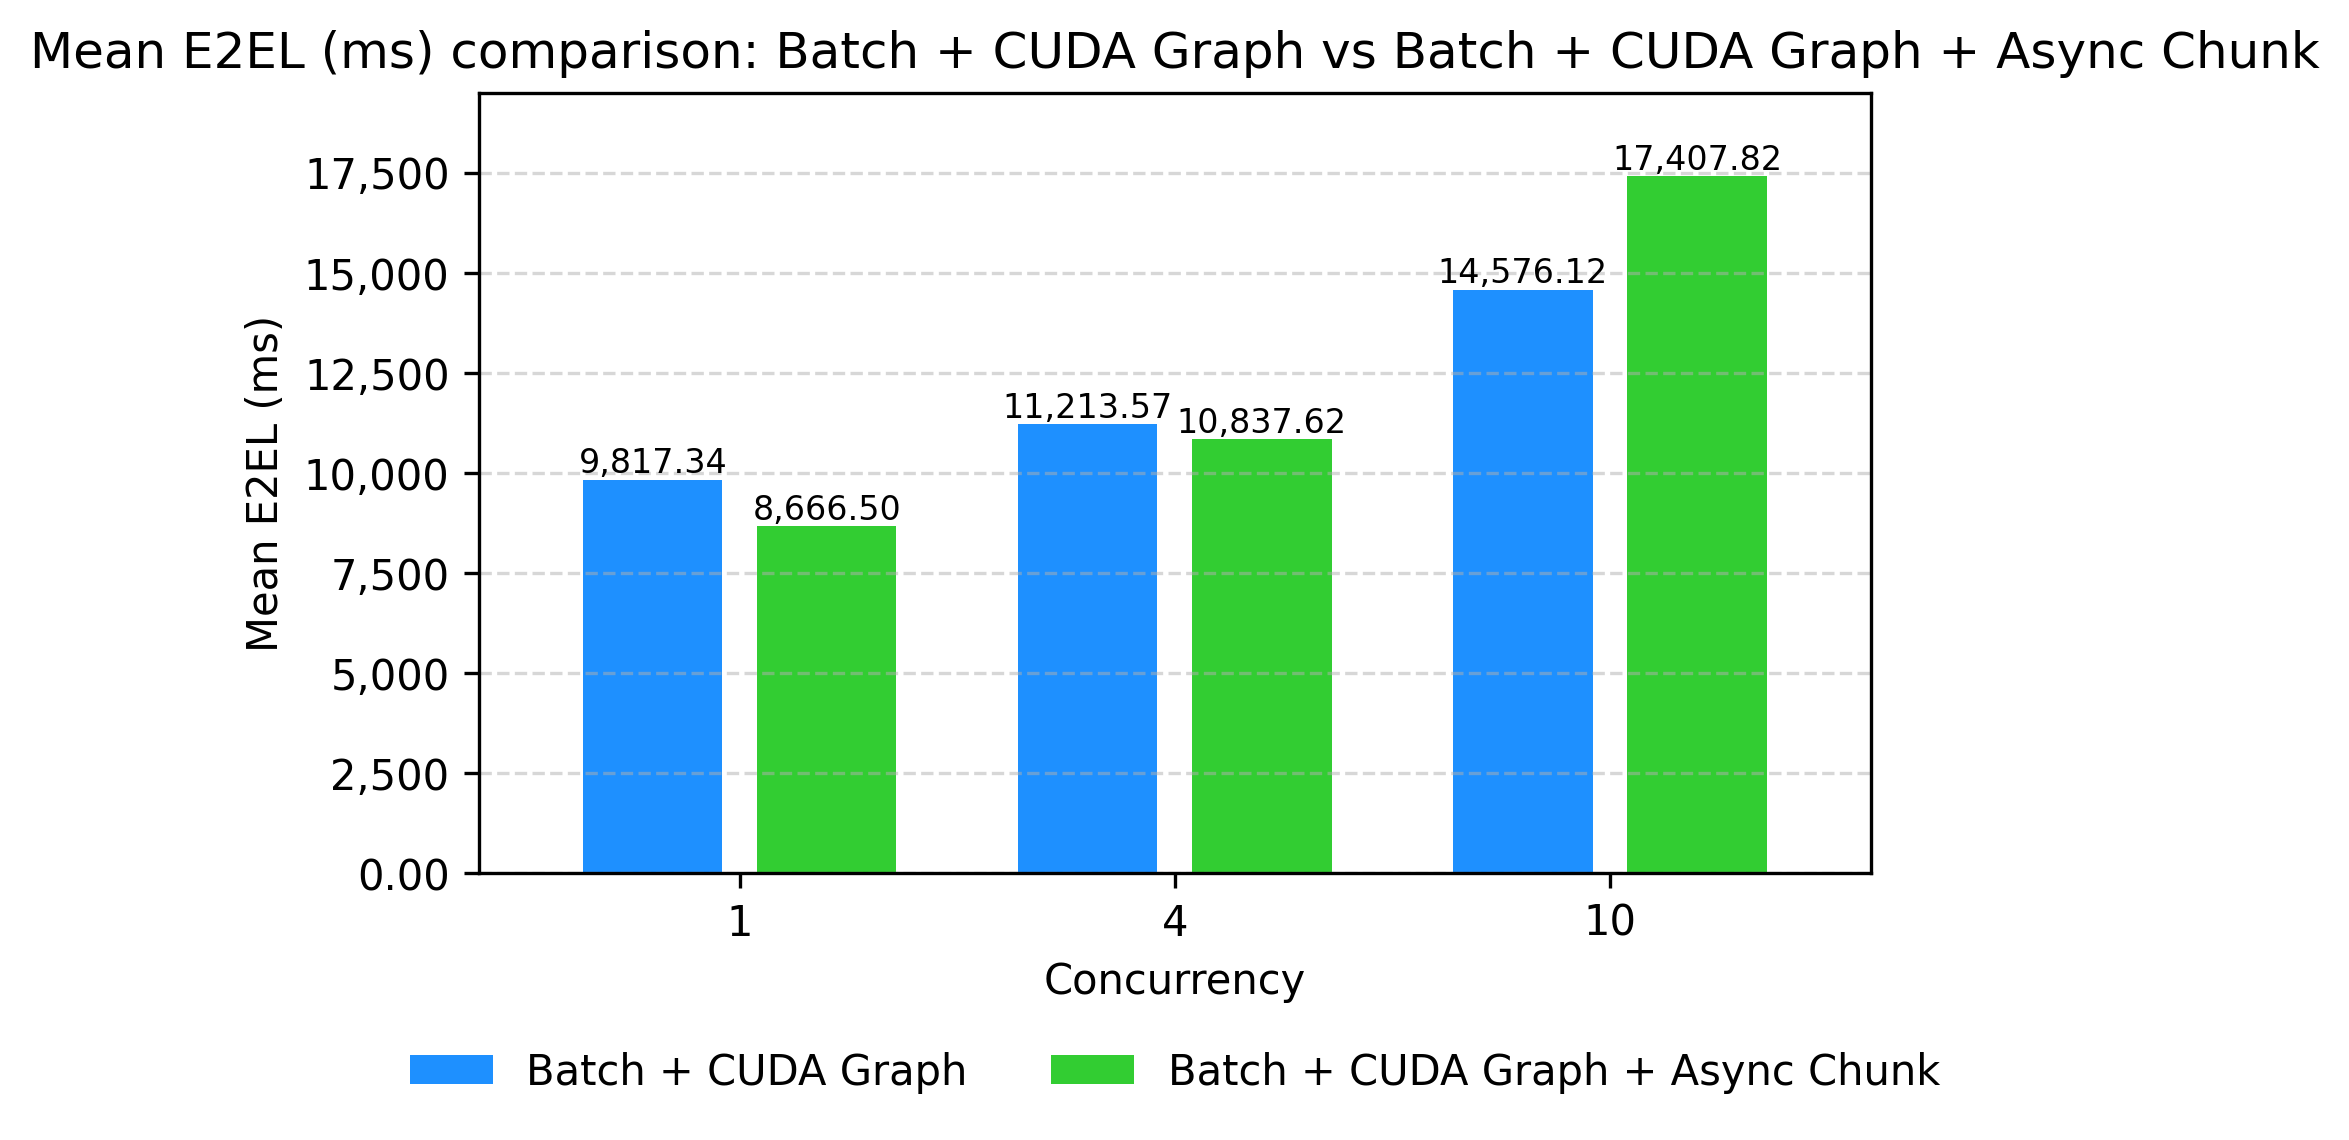
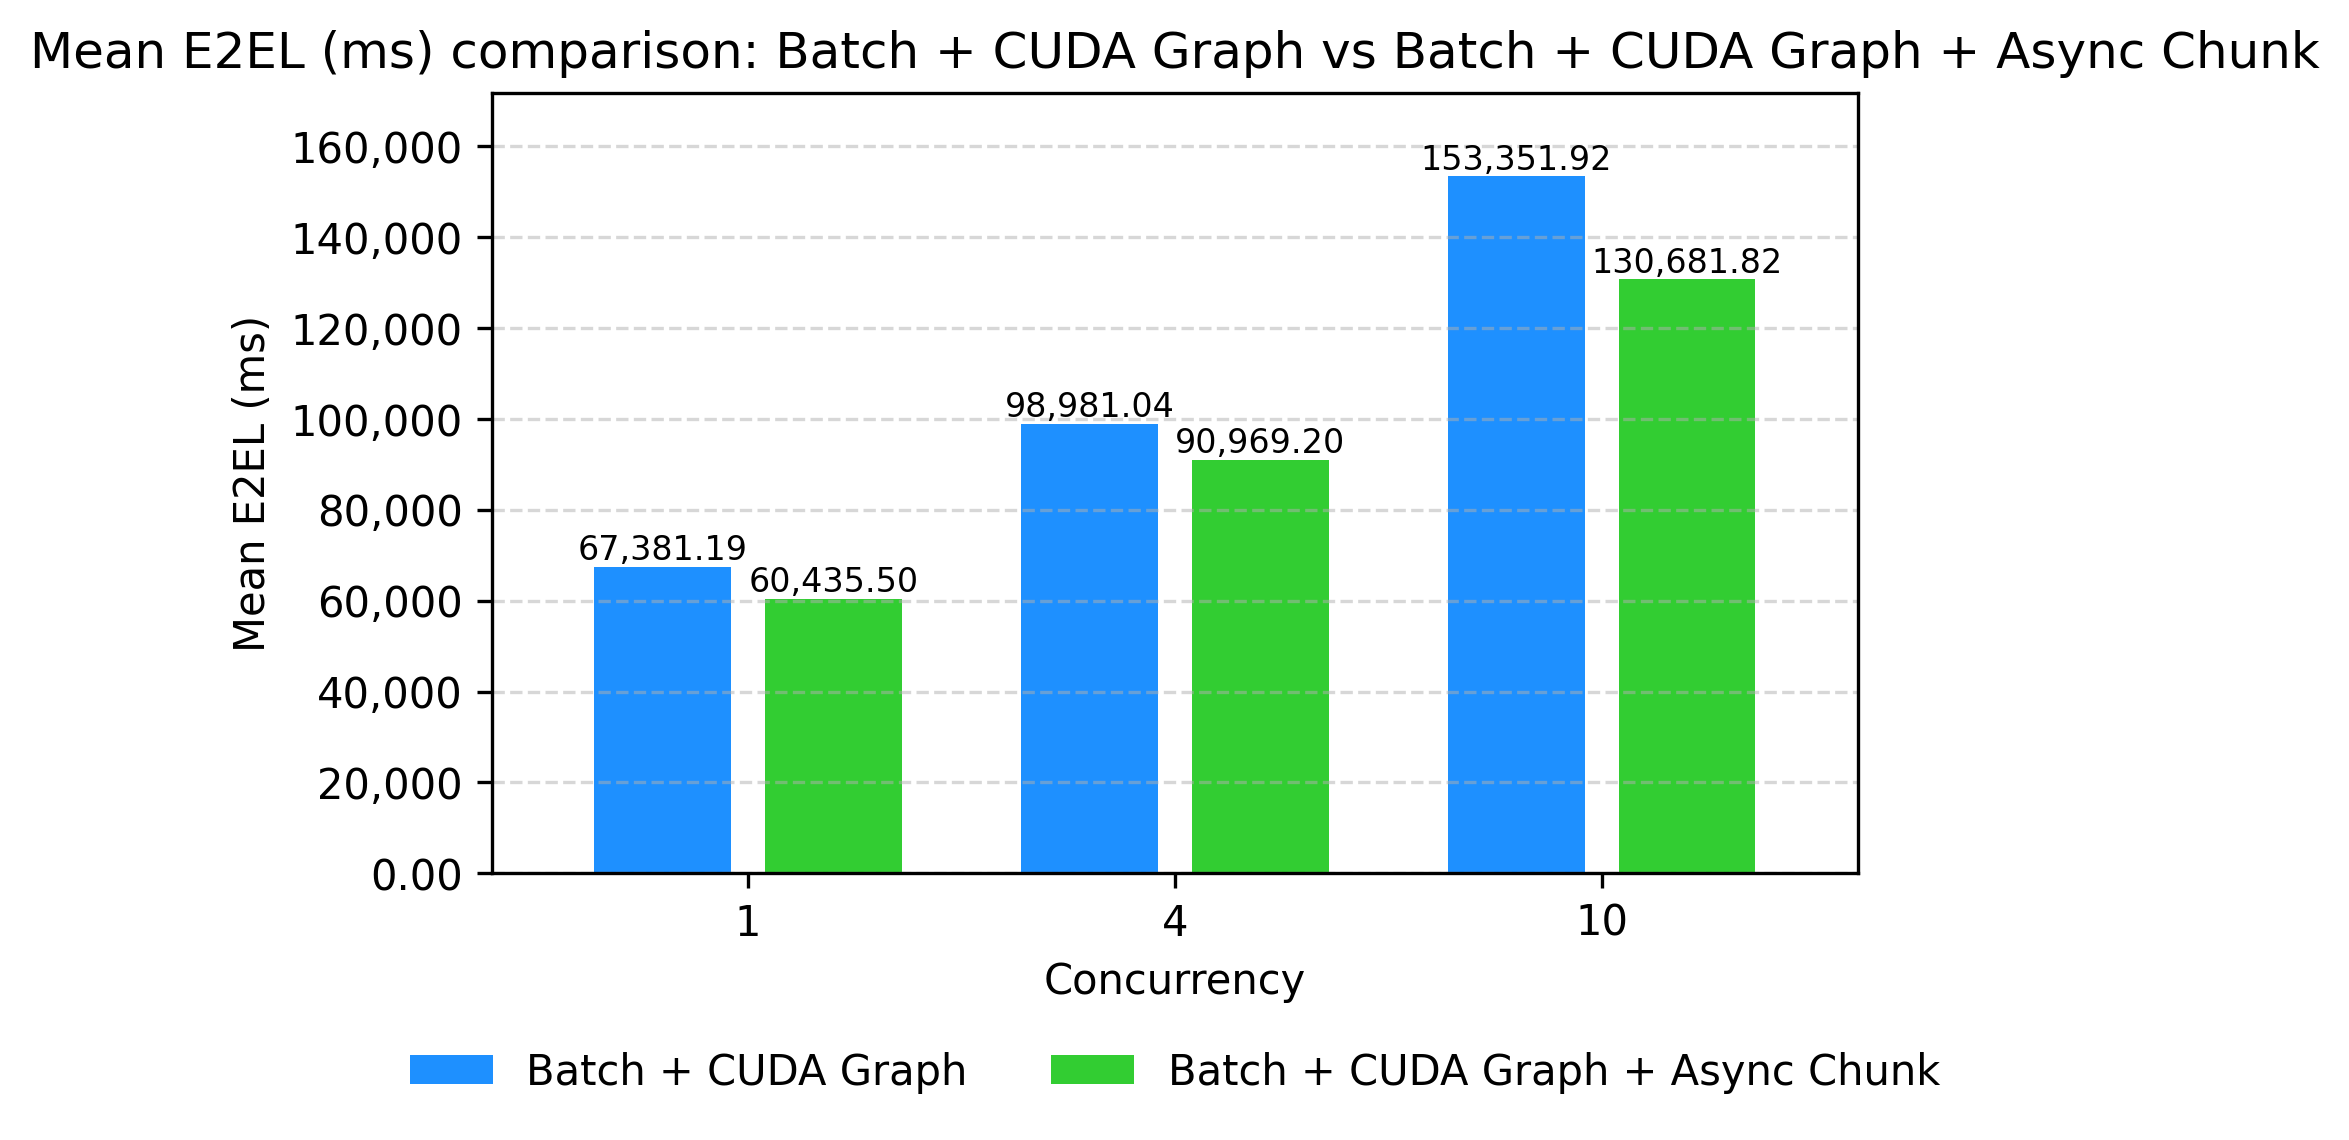
qwen3 omni blog

diff --git a/plot_comparison.py b/plot_comparison.py
@@ -16,21 +16,21 @@ FIG_DIR.mkdir(parents=True, exist_ok=True)
 # 数据
 # =======================
 data = [
-    ["Batch + CUDA Graph + Async Chunk",1,8666.5,795.22,0.33],
-    ["Batch + CUDA Graph + Async Chunk",4,10837.62,1097.88,0.39],
-    ["Batch + CUDA Graph + Async Chunk",10,17407.82,2156.9,0.64],
+    ["Batch + CUDA Graph + Async Chunk",1,60435.5,1263,0.33],
+    ["Batch + CUDA Graph + Async Chunk",4,90969.2,3174.99,0.43],
+    ["Batch + CUDA Graph + Async Chunk",10,130681.82,12262.39,0.74],
 
-    ["Batch",1,36746.06,36617.84,1.4],
-    ["Batch",4,39559.16,39434.84,1.52],
-    ["Batch",10,45076.47,44946.48,1.65],
+    ["Batch",1,258556.1,258256.7,1.48],
+    ["Batch",4,259586.2,259342.8,1.62],
+    ["Batch",10,262400.45,262157.5,2.18],
 
-    ["Batch + CUDA Graph",1,9817.34,9692.73,0.36],
-    ["Batch + CUDA Graph",4,11213.57,11086.15,0.41],
-    ["Batch + CUDA Graph",10,14576.12,14438.77,0.53],
+    ["Batch + CUDA Graph",1,67381.19,67120.89,0.43],
+    ["Batch + CUDA Graph",4,98981.04,98678.91,0.46],
+    ["Batch + CUDA Graph",10,153351.92,152792.3,0.88],
 
-    ["Baseline",1,37300.42,37173.82,1.42],
-    ["Baseline",4,120200.23,120074.43,4.68],
-    ["Baseline",10,302722.3,302595.15,11.72],
+    ["Baseline",1,325865.36,325517.15,1.52],
+    ["Baseline",4,988038.79,987707.63,6.66],
+    ["Baseline",10,1523135.4,1522803.53,6.94],
 ]
 
 df = pd.DataFrame(

diff --git a/docs/design/qwen3_omni_blog.md b/docs/design/qwen3_omni_blog.md
@@ -11,9 +11,9 @@ vLLM-Omni now supports running this full Qwen3-Omni pipeline end-to-end, and mor
 
 1. **Batching** improves GPU utilization stage by stage and increases overall throughput.
 2. **CUDA Graph** reduces CPU launch overhead and decode-time jitter on stable shapes.
-3. **Async chunk** overlaps compute and communication across stages, improving both TTFP and E2E.
+3. **Async Chunk and Streaming Output** overlap compute and communication across stages and emit audio incrementally, improving both TTFP and E2E.
 
-Compared with **Hugging Face Transformers** (offline, single request), vLLM-Omni with streaming and the full optimization stack (Batching + CUDA Graph + Async Chunk) delivers much lower latency and higher efficiency:
+Compared with **Hugging Face Transformers** (offline, single request), vLLM-Omni with the full optimization stack (Batching + CUDA Graph + Async Chunk + Streaming Output) delivers much lower latency and higher efficiency:
 
 <table><tr>
 <td><img src="figures/E2EL_s_vllm_omni_vs_transformers.png" alt="E2E Latency: vLLM-Omni vs HF transformers" width="100%"/></td>
@@ -25,15 +25,39 @@ Compared with **Hugging Face Transformers** (offline, single request), vLLM-Omni
 - **Time to first audio (TTFP)**: 0.934 s vs 336.10 s — **~99.7%** reduction
 - **Real-time factor (RTF)**: 0.32 vs 3.776 — **~91%** reduction (~12× faster)
 
-Compared with the baseline (vLLM-Omni without these optimizations), the stacked setup (Batching + CUDA Graph + Async Chunk) achieves:
+Compared with the baseline (vLLM-Omni without these optimizations), the stacked setup (Batching + CUDA Graph + Async Chunk + Streaming Output) achieves:
 
-- **E2E latency (E2EL) reduction**: **~94%** at concurrency 10 (302,722 ms → 17,408 ms); **~77%** at concurrency 1 (37,300 ms → 8,667 ms)
-- **Audio TTFP reduction**: **~99%** at concurrency 10 (302,595 ms → 2,157 ms); **~98%** at concurrency 1 (37,174 ms → 795 ms)
-- **Real-time factor (RTF)**: **~95%** reduction at concurrency 10 (11.72 → 0.64), i.e. **~18×** higher effective throughput
+- **E2E latency (E2EL) reduction**: **~91%** at concurrency 10 (1,523,135 ms → 130,682 ms); **~81%** at concurrency 1 (325,865 ms → 60,436 ms)
+- **Audio TTFP reduction**: **~99.2%** at concurrency 10 (1,522,804 ms → 12,262 ms); **~99.6%** at concurrency 1 (325,517 ms → 1,263 ms)
+- **Real-time factor (RTF)**: **~89%** reduction at concurrency 10 (6.94 → 0.74), i.e. **~9×** higher effective throughput; **~78%** at concurrency 1 (1.52 → 0.33)
 
-*Final = Batching + CUDA Graph + Async Chunk.*
+*Final = Batching + CUDA Graph + Async Chunk + Streaming Output.*
 
-**Benchmark environment:** All performance data and figures in this post were measured on **A100** GPUs at commit **070ea0dd**.
+**Benchmark environment:** All performance data and figures in this post were measured on **A100** GPUs.
+
+All experiments can be reproduced with the following software stack:
+
+- **vLLM**: v0.16.0  
+- **vllm-omni**: commit 070ea0dd  
+- **CUDA**: 12.8  
+
+Below is an example command used to generate these benchmarks:
+
+```bash
+vllm bench serve \
+  --dataset-name random \
+  --port ${PORT} \
+  --model ${MODEL_PATH} \
+  --endpoint /v1/chat/completions \
+  --backend openai-chat-omni \
+  --max-concurrency ${MAX_CONCURRENCY} \
+  --num-prompts ${NUM_PROMPTS} \
+  --random-input-len 2500 \
+  --ignore-eos \
+  --percentile-metrics ttft,tpot,itl,e2el,audio_ttfp,audio_rtf \
+  --random-output-len 900 \
+  --extra_body '{"modalities": ["text","audio"]}'
+```
 
 This post walks through each optimization in the same order they are typically enabled in practice, then ends with a deployment playbook you can directly apply.
 
@@ -49,11 +73,13 @@ For Qwen3-Omni, batching is not a single switch at one model boundary. It is a p
 - each stage executes batch inference with its own scheduler/worker
 - stage outputs are routed to downstream stages with per-request mapping preserved
 
+**Batching strategy by stage:** Stage-0 (Thinker) and Stage-1 (Talker) use **continuous batching**: requests can join and leave the batch over time as they progress, so the scheduler can pack work efficiently. Stage-2 (Code2Wav) uses **static batching**: once a batch is formed, the stage runs inference on the whole batch and only starts the next batch after every request in the current batch has finished. This matches the decode pattern of Code2Wav and keeps implementation simple while still improving throughput over no batching.
+
 This is especially important for multimodal speech generation, where bottlenecks may move between Thinker, Talker, and Code2Wav depending on concurrency and output length.
 
 ### Stage-level batching results (Baseline vs. Batch)
 
-Batching alone greatly reduces E2EL and RTF at higher concurrency (e.g. at concurrency 10, E2EL drops from ~303s to ~45s).
+Batching alone greatly reduces E2EL and RTF across all concurrencies (e.g. at concurrency 10, E2EL drops from ~1,523 s to ~262 s; at concurrency 1, from ~326 s to ~259 s).
 
 <table><tr>
 <td><img src="figures/Mean_E2EL_ms_Baseline_vs_Batch.png" alt="E2EL: Baseline vs Batch" width="100%"/></td>
@@ -72,7 +98,7 @@ In stage configs, this is typically represented by `enforce_eager: false` for st
 
 ### CUDA Graph results on top of batching
 
-Adding CUDA Graph on the decode path further cuts E2EL and TTFP (e.g. at concurrency 1, E2EL drops from ~37s to ~10s) and lowers RTF.
+Adding CUDA Graph on the decode path further cuts E2EL and TTFP (e.g. at concurrency 1, E2EL drops from ~259 s to ~67 s; at concurrency 10, from ~262 s to ~153 s) and lowers RTF at every concurrency.
 
 <table><tr>
 <td><img src="figures/Mean_E2EL_ms_Batch_vs_Batch_CUDA_Graph.png" alt="E2EL: Batch vs Batch + CUDA Graph" width="100%"/></td>
@@ -82,7 +108,7 @@ Adding CUDA Graph on the decode path further cuts E2EL and TTFP (e.g. at concurr
 
 ---
 
-## Streaming + Async Chunk: Earlier Audio and Cross-Stage Overlap
+## Async Chunk and Streaming Output: Earlier Audio and Cross-Stage Overlap
 
 ### Why this step matters for first-packet latency
 
@@ -91,16 +117,20 @@ Two mechanisms work together to improve user-visible latency:
 - **Streaming output**: **audio streaming** emits audio chunks as soon as they are decoded (lower **TTFP**). Without streaming, the client waits for larger buffers or end-of-sequence.
 - **Async chunk** is the main enabler for *earlier* audio: instead of handing off whole-request results between stages, each stage forwards **chunks** so the next stage can start as soon as the first chunk is ready. Thinker → Talker forwards hidden-state chunks; Talker → Code2Wav forwards codec chunks; Code2Wav decodes and emits packets incrementally. This **overlaps compute and communication** across stages and directly reduces time-to-first-audio-packet (TTFP) and end-to-end latency (E2EL).
 
-So in practice: streaming defines *how* bytes are sent to the client; async chunk defines *when* the pipeline can produce the first bytes. Enabling **async chunk on top of batching + CUDA Graph** gives the largest gain for TTFP and E2EL in our benchmarks.
+So in practice: streaming output defines *how* bytes are sent to the client; async chunk defines *when* the pipeline can produce the first bytes.
 
-### Results: Batch + CUDA Graph vs. Batch + CUDA Graph + Async Chunk
+**Dependency between the two:** Async chunk and audio streaming output are mutually dependent. Without async chunk, **audio streaming output cannot truly take effect**. Without audio streaming output, async chunk’s **TTFP advantage is not fully realized**: the client would still wait for larger buffers or end-of-sequence instead of hearing the first packet as soon as it is ready. We therefore recommend enabling **both** on top of batching + CUDA Graph; the benchmarks in this post use both.
 
-Stacking assumptions: batching and CUDA Graph enabled; streaming input/output enabled. The figures below compare **without** vs **with** async chunk. Async chunk brings **TTFP down sharply** (e.g. at concurrency 1: 9,693 ms → 795 ms, **~92% reduction**; at concurrency 4: 11,086 ms → 1,098 ms, **~90% reduction**), so users hear the first audio much sooner. E2EL at concurrency 1 also improves (9,817 ms → 8,667 ms); at concurrency 4, E2EL goes from 11,214 ms to 10,838 ms with async chunk. At higher concurrency, E2EL/RTF may trade off slightly for better first-packet latency; the stacked setup still dominates the baseline.
+Enabling **async chunk and streaming output on top of batching + CUDA Graph** yields large gains for TTFP (first-packet latency) and improves E2EL and RTF as well in our benchmarks.
+
+### Results: Batch + CUDA Graph vs. Batch + CUDA Graph + Async Chunk + Streaming Output
+
+Stacking assumptions: batching and CUDA Graph enabled. The figures below compare **without** vs **with** async chunk and streaming output. Enabling both brings **TTFP down sharply** (e.g. at concurrency 1: 67,121 ms → 1,263 ms, **~98% reduction**; at concurrency 4: 98,679 ms → 3,175 ms, **~97% reduction**), so users hear the first audio much sooner. E2EL and RTF also improve at every concurrency (e.g. E2EL 67,381 → 60,436 ms at concurrency 1; 153,352 → 130,682 ms at concurrency 10). The stacked setup consistently outperforms the baseline across all metrics and concurrencies.
 
 <table><tr>
-<td><img src="figures/Mean_E2EL_ms_Batch_CUDA_Graph_vs_Async_Chunk.png" alt="E2EL: Batch+CG vs +Async Chunk" width="100%"/></td>
-<td><img src="figures/Mean_AUDIO_TTFP_ms_Batch_CUDA_Graph_vs_Async_Chunk.png" alt="TTFP: Batch+CG vs +Async Chunk" width="100%"/></td>
-<td><img src="figures/Mean_AUDIO_RTF_Batch_CUDA_Graph_vs_Async_Chunk.png" alt="RTF: Batch+CG vs +Async Chunk" width="100%"/></td>
+<td><img src="figures/Mean_E2EL_ms_Batch_CUDA_Graph_vs_Async_Chunk.png" alt="E2EL: Batch+CG vs +Async Chunk + Streaming" width="100%"/></td>
+<td><img src="figures/Mean_AUDIO_TTFP_ms_Batch_CUDA_Graph_vs_Async_Chunk.png" alt="TTFP: Batch+CG vs +Async Chunk + Streaming" width="100%"/></td>
+<td><img src="figures/Mean_AUDIO_RTF_Batch_CUDA_Graph_vs_Async_Chunk.png" alt="RTF: Batch+CG vs +Async Chunk + Streaming" width="100%"/></td>
 </tr></table>
 
 ---
@@ -112,8 +142,7 @@ Stacking assumptions: batching and CUDA Graph enabled; streaming input/output en
 ```bash
 vllm serve Qwen/Qwen3-Omni-30B-A3B-Instruct \
   --omni \
-  --port 8091 \
-  --stage-configs-path vllm_omni/model_executor/stage_configs/qwen3_omni_moe.yaml
+  --port 8091
 ```
 
 Notes:
@@ -162,6 +191,6 @@ stage_args:
       max_batch_size: 64
     engine_args:
       enforce_eager: true
-      max_num_batched_tokens: 51200 # tune this for throughput vs first-packet tradeoff
+      max_num_batched_tokens: 51200
 ```
 ---
